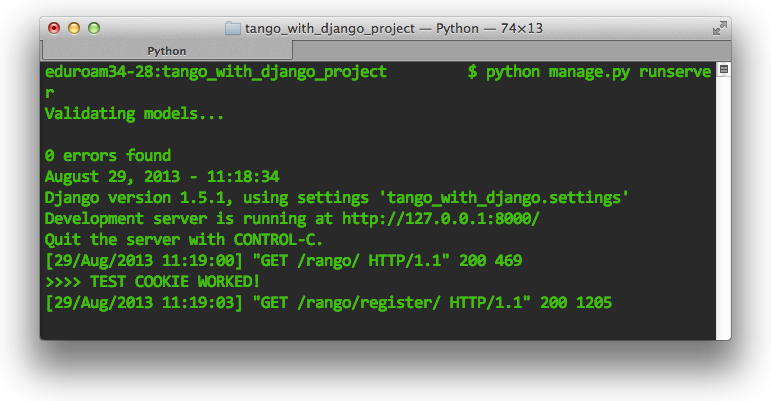
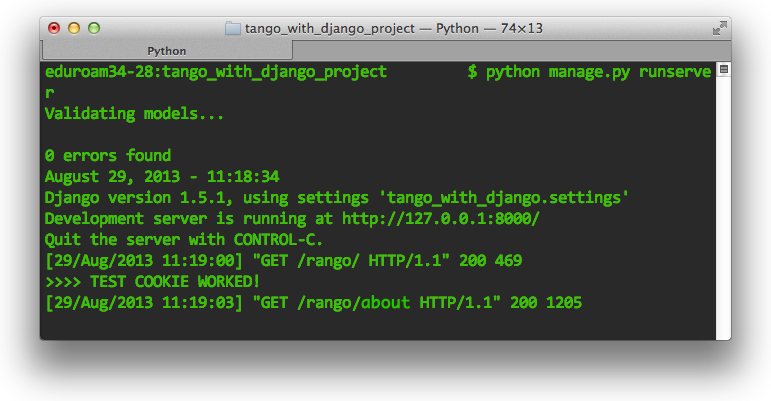
Working through changes

Changed region(s): [[0.4358, 0.7182, 0.8093, 0.7781]]

diff --git a/manuscript/chapter14-webhose.md b/manuscript/chapter14-webhose.md
@@ -190,7 +190,7 @@ In the code samples above, we have implemented two functions: one to retrieve yo
 ### `read_webhose_key()` -- Reading the Webhose API Key
 The `read_webhose_key()` function reads in your Webhose API key from a file called `webhose.key`. This file should be located in your Django project's root directory, **not Rango's directory** (i.e. `<workspace>/tango_with_django_project/`). We have created this function as it allows you to separate your private API key from the code that utilises it. This is advantageous in scenarios where code is shared publicly (i.e. on GitHub) -- you don't want people using your API key!
 
-You should create the `webhose.key` file now. Take the Webhose API key you copied earlier, and save it into the file `<workspace/tango_with_django_project/webhose.key>`. The key should be the only contents of the file -- nothing else should exist within it. Avoid committing the file to your GitHub repository by updating your repository's `.gitignore` file to exclude any files with a `.key` extension by adding the line `*.key`. This way, your key is only stored locally, and cannot be committed to your remote Git repository by accident.
+You should create the `webhose.key` file now. Take the Webhose API key you copied earlier, and save it into the file `<workspace>/tango_with_django_project/webhose.key`. The key should be the only contents of the file -- nothing else should exist within it. Avoid committing the file to your GitHub repository by updating your repository's `.gitignore` file to exclude any files with a `.key` extension by adding the line `*.key`. This way, your key is only stored locally, and cannot be committed to your remote Git repository by accident.
 
 T> ### Keys
 T> Keep them secret, keep them safe!

diff --git a/manuscript/chapter9-user-authenication.md b/manuscript/chapter9-user-authenication.md
@@ -573,7 +573,7 @@ With the view created, map the URL `/rango/logout/` to the `user_logout()` view 
 
 Now that all the machinery for logging a user out has been completed, we can add some finishing touches. It'd be handy to provide a link from the homepage to allow users to simply click a link to logout. However, let's be smart about this: is there any point providing the logout link to a user who isn't logged in? Perhaps not - it may be more beneficial for a user who isn't logged in to be given the chance to register, for example.
 
-Like in the previous section, we'll be modifying Rango's `index.html` template and making use of the `user` object in the template's context to determine what links we want to show. Find your growing list of links at the bottom of the page, and replace it with the following code. Note we also add a link to our restricted page at `/rango/restricted/`.
+Like in the previous section, we'll be modifying Rango's `base.html` template and making use of the `user` object in the template's context to determine what links we want to show. Find your growing list of links at the bottom of the page, and replace it with the following code. Note we also add a link to our restricted page at `/rango/restricted/`.
 
 {lang="html",linenos=off}
 	<ul>

diff --git a/manuscript/chapter10-cookies.md b/manuscript/chapter10-cookies.md
@@ -68,7 +68,7 @@ In the `about()` view, add the following three lines to the top of the function.
 	    print("TEST COOKIE WORKED!")
 	    request.session.delete_test_cookie()
 
-With these small changes saved, run the Django development server and navigate to Rango's homepage, `http://127.0.0.1:8000/rango/`. Now navigate to the registration page, you should see `TEST COOKIE WORKED!` appear in your Django development server's console, like in the [figure below](#fig-ch10-test-cookie).
+With these small changes saved, run the Django development server and navigate to Rango's homepage, `http://127.0.0.1:8000/rango/`. Now navigate to the about page, you should see `TEST COOKIE WORKED!` appear in your Django development server's console, like in the [figure below](#fig-ch10-test-cookie).
 
 {id="fig-ch10-test-cookie"}
 ![A screenshot of the Django development server's console output with the `TEST COOKIE WORKED!` message.](images/ch10-test-cookie.png)
